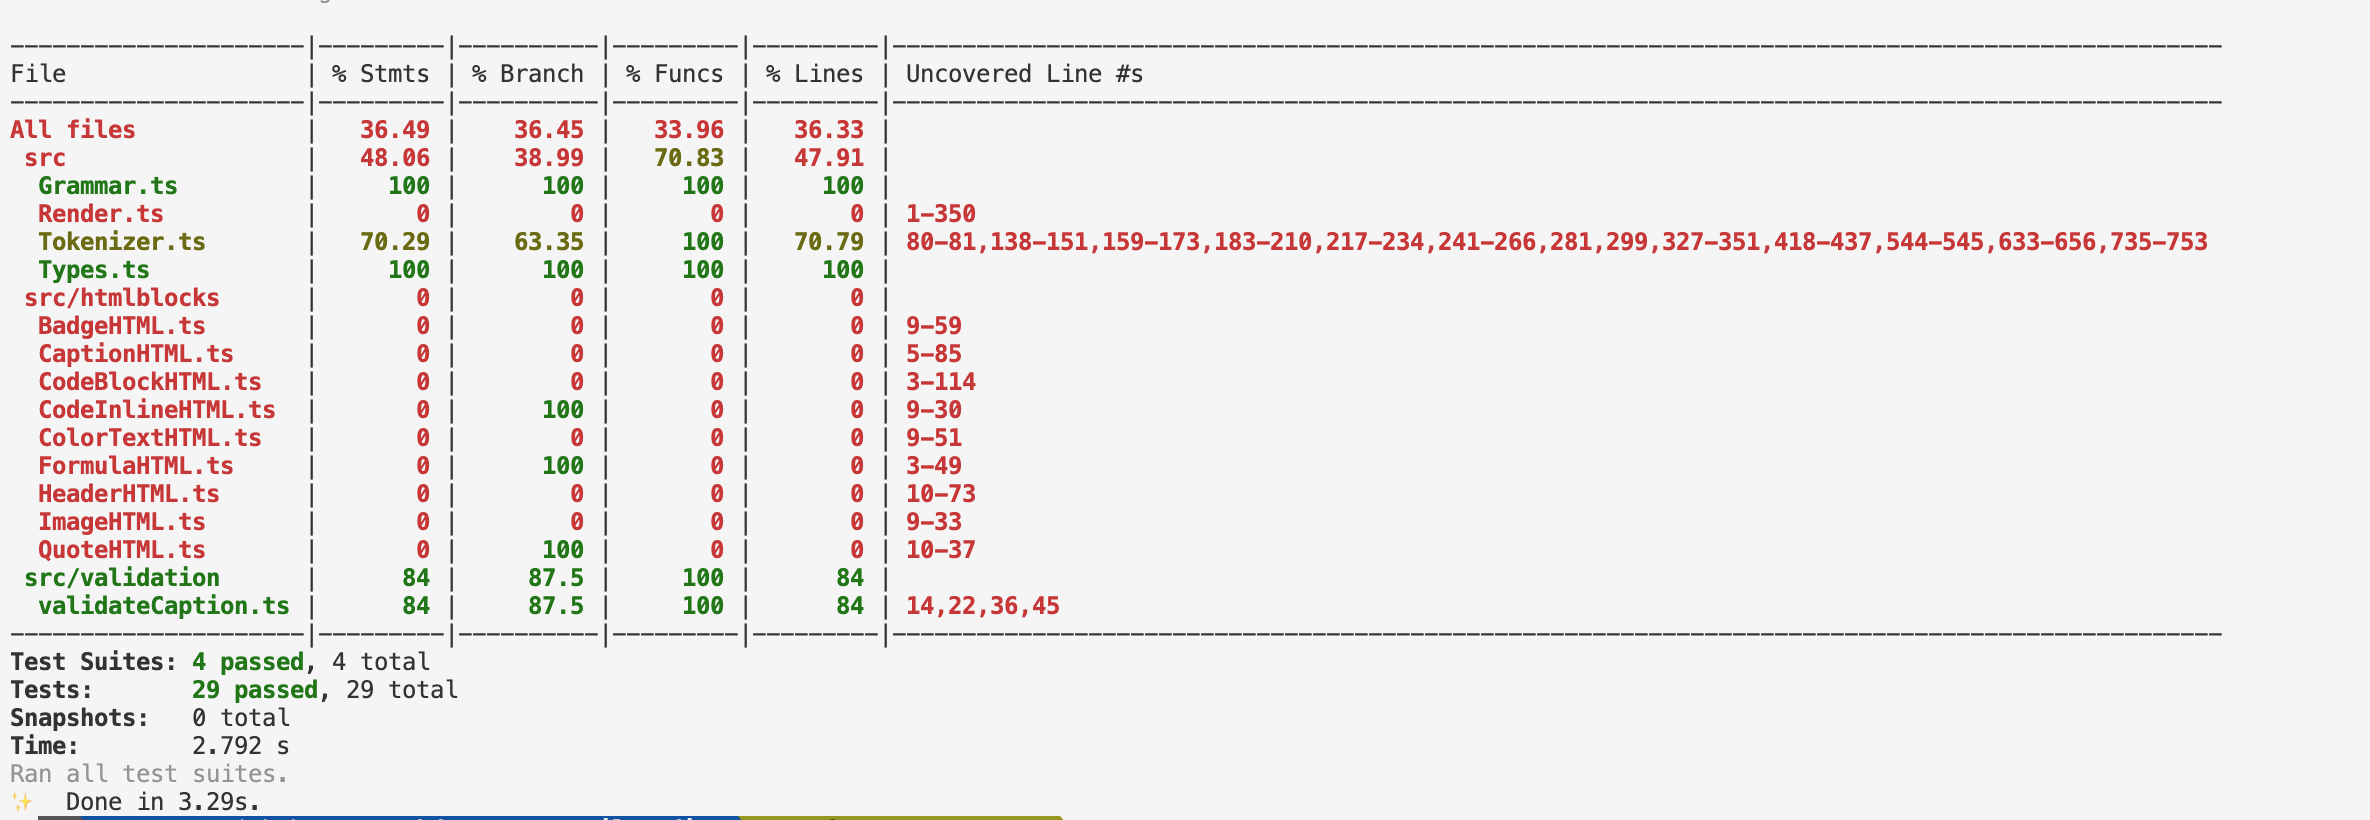
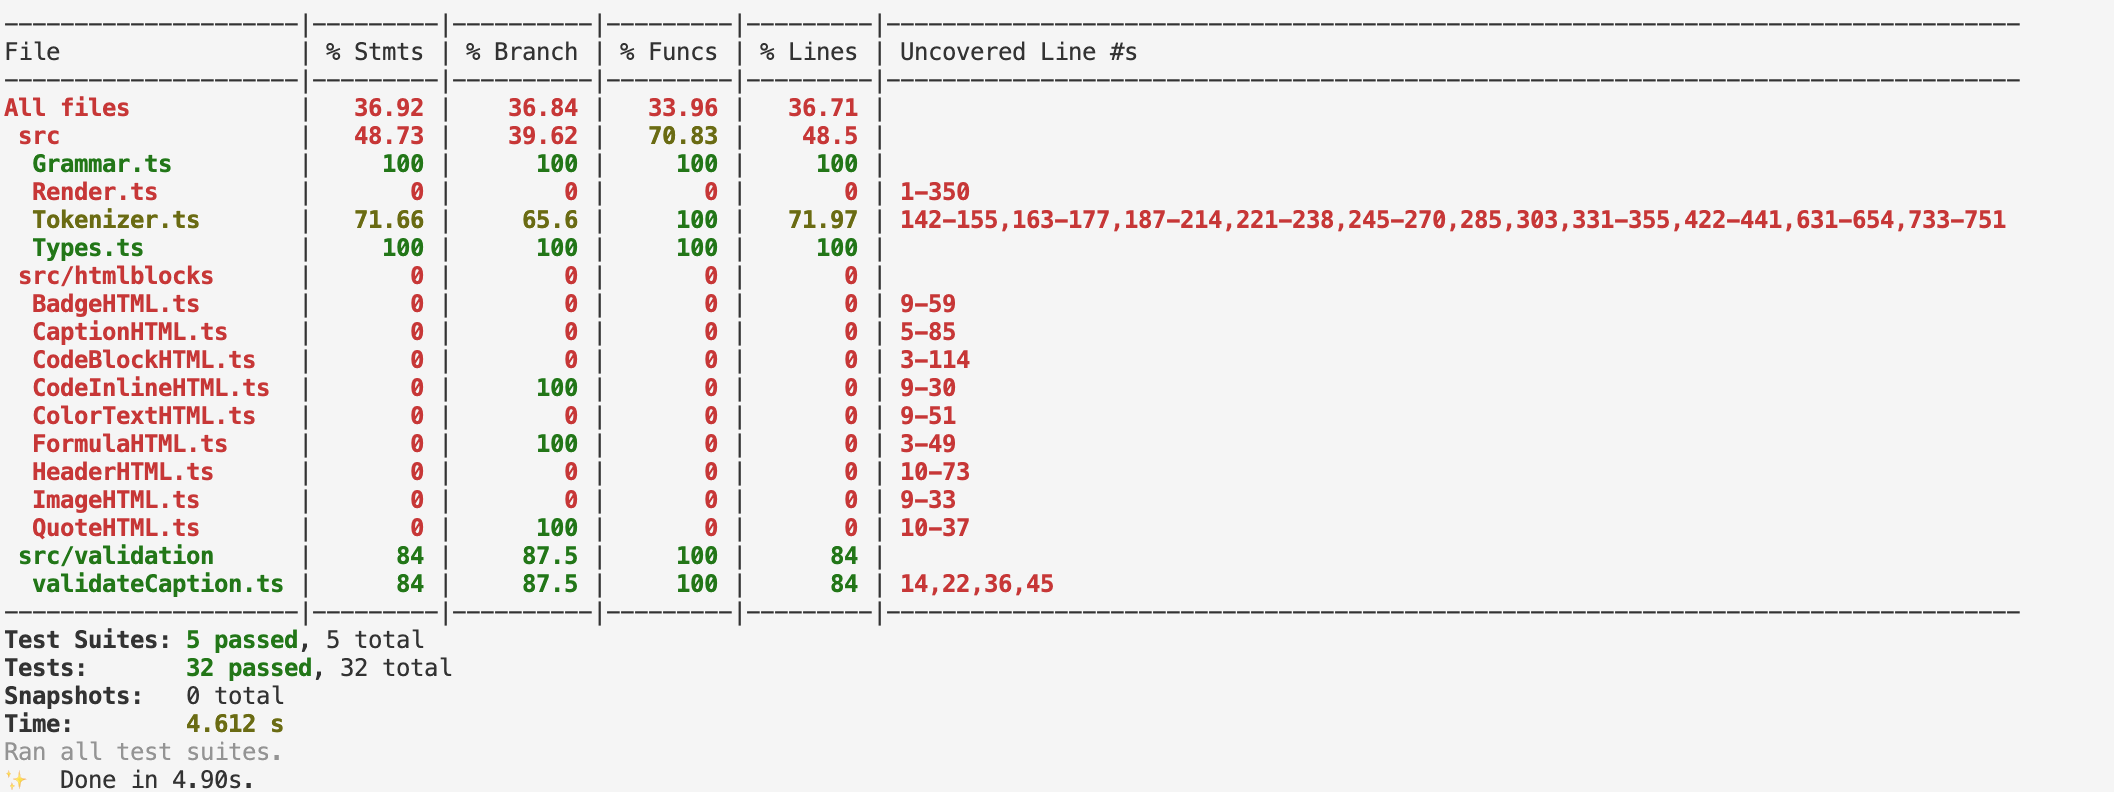
v.0.5.0 updates
- paragraph tests
- adoptation Tokenizer

Changed region(s): [[0.0, 0.0303, 0.9678, 1.0]]

diff --git a/src/tests/Paragraph.test.ts b/src/tests/Paragraph.test.ts
@@ -1,0 +1,46 @@
+import { Tokenizer } from "../Tokenizer";
+import { TokenType } from "../Types";
+
+describe('Paragraph separation tests', () => {
+
+    /*
+    1. Black line creates two separate paragraphs
+    2. Single newline creates separate paragraphs
+    3. Three paragraphs with blank lines
+    */
+
+    test('blank line creates two separate paragraphs', () => {
+        
+        const text = 'Paragraph one.\n\nParagraph two.\n';
+        const tokenizer = new Tokenizer(text);
+        const nodes = tokenizer.getAST().children;
+        
+        //console.log('Nodes:', JSON.stringify(nodes.map((n:any) => ({type: n.type, value: n.token?.value}))));
+        
+        const paragraphs = nodes.filter((n: any) => n.type === TokenType.PARAGRAPH);
+        expect(paragraphs).toHaveLength(2);
+    });
+
+    test('single newline creates separate paragraphs', () => {
+        
+        const text = 'Line one.\nLine two.\n';
+        const tokenizer = new Tokenizer(text);
+        const nodes = tokenizer.getAST().children;
+        //console.log('Nodes:', JSON.stringify(nodes.map((n:any) => ({type: n.type, value: n.token?.value}))));
+        
+        const paragraphs = nodes.filter((n: any) => n.type === TokenType.PARAGRAPH);
+        expect(paragraphs).toHaveLength(2);
+    });
+
+    test('three paragraphs with blank lines', () => {
+        
+        const text = 'First.\n\nSecond.\n\nThird.\n';
+        const tokenizer = new Tokenizer(text);        
+        const nodes = tokenizer.getAST().children;
+        
+        //console.log('Nodes:', JSON.stringify(nodes.map((n:any) => ({type: n.type, value: n.token?.value}))));
+        
+        const paragraphs = nodes.filter((n: any) => n.type === TokenType.PARAGRAPH);
+        expect(paragraphs).toHaveLength(3);
+    });
+});

diff --git a/src/Tokenizer.ts b/src/Tokenizer.ts
@@ -76,7 +76,11 @@ export class Tokenizer {
 
 			// remove leading whitespace
 			const whitespace = this.text.match(/^\s+/);
+			let hadBlankLine = false;
     		if (whitespace) {
+
+				// any leading newline as a new paragraph
+        		hadBlankLine = /\n/.test(whitespace[0]);
         		this.text = this.text.slice(whitespace[0].length);
         		if (this.text.length === 0) break; 
     		}
@@ -539,23 +543,17 @@ export class Tokenizer {
             const end = nextNewline === -1 ? this.text.length : nextNewline + 1;
             const chunk = this.text.slice(0, end);
 
-            const lastNode = this.ast.children[this.ast.children.length - 1];
-            if (lastNode && lastNode.type === "Paragraph") {
-                lastNode.raw += chunk;
-                if (lastNode.token) lastNode.token.value += chunk;
-            } else {
-
-                //add to the astNode
-					this.ast.children.push({
-						type: TokenType.PARAGRAPH,						
-						raw: chunk,
-						token: {
-							type: TokenType.PARAGRAPH,
-							value: chunk
-						},  
-						children: []
-					});
-            }
+            //each line becomes its own paragraph
+			this.ast.children.push({
+				type: TokenType.PARAGRAPH,						
+				raw: chunk,
+				token: {
+					type: TokenType.PARAGRAPH,
+					value: chunk
+				},  
+				children: []
+			});
+            
 
             this.text = this.text.slice(end);		
 

diff --git a/README.md b/README.md
@@ -44,7 +44,7 @@ AI was strictly utilized only for architectural brainstorming and refining compl
 
 The Core AST generation logic is tested to parsing stability and regression prevention:
 - **70% Code Coverage** Focus is placed on critical structural components.
-- **Core Block Testing** High priority modules (tables, headers, lists, caption)
+- **Core Block Testing** High priority modules (tables, headers, lists, caption, paragraphs)
 
 ![testing screenshot](./assets/testing_screenshot.png)
 
